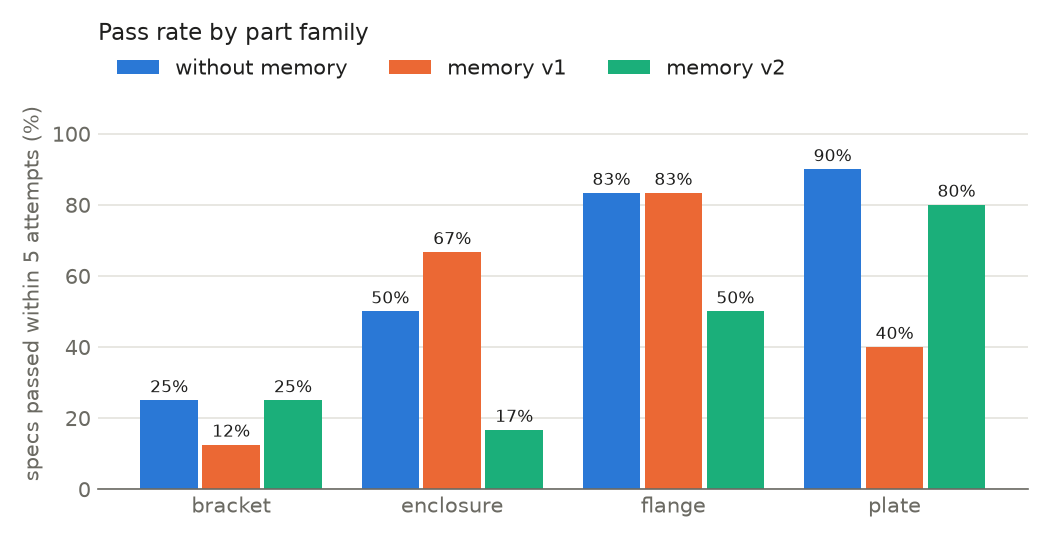
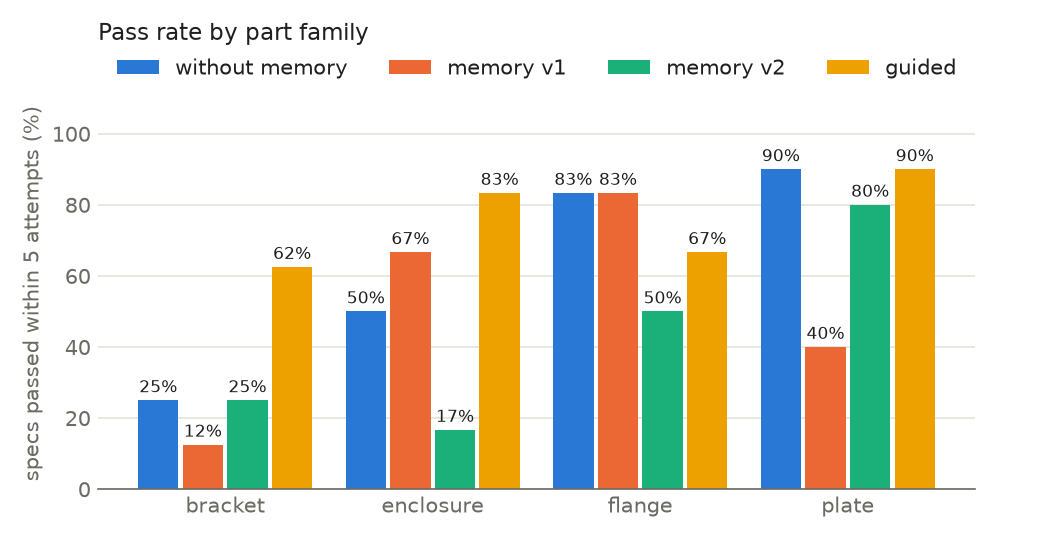
results: add the guided run, which passed 23 of 30 specs
With a tested CadQuery guide, hints in the feedback and a short attempt history, 77% of specs passed against 63% without help, and 37% passed on the first attempt against 13%. The gap is not yet significant on one run, so the README says so and names the next step: more runs of both conditions.

diff --git a/README.md b/README.md
@@ -1,9 +1,11 @@
 # cad-agent
 
 An LLM agent that writes [CadQuery](https://github.com/CadQuery/cadquery) code
-from a written part spec, a checker that measures the solid it builds, and a
-memory of lessons from earlier mistakes. A 30-part benchmark measures whether the
-memory helps.
+from a written part spec, and a checker that measures the solid it builds. A
+30-part benchmark compares four ways of helping the model: none, two versions of
+a memory of lessons it writes itself, and a hand-written guide with more precise
+feedback. The guide raised the pass rate from 63% to 77%; the learned memories
+lowered it to 47%.
 
 ## The problem: "it runs" is not "it's right"
 
@@ -100,8 +102,8 @@ partway. The hole-depth check caught them, and plate_07 keeps that mistake as a
 broken copy.
 
 **Conditions.** A: no memory. B: memory v1. C: memory v2. In B and C the memory
-starts empty and builds up over the run. D (results pending) replaces learned
-memory with a hand-written CadQuery guide whose examples are tested, hints in the
+starts empty and builds up over the run. D (guided) has no memory. Instead it
+adds a hand-written CadQuery guide whose examples are tested, hints in the
 checker's feedback, and a short history of earlier attempts in each retry. All three see the same 30 specs in the
 same shuffled order, at temperature 1.0, seeded per run.
 
@@ -111,15 +113,15 @@ One run per condition with `openai/gpt-oss-120b` on Groq, 30 specs each. Every
 number below comes from [results/openai_gpt-oss-120b/summary.md](results/openai_gpt-oss-120b/summary.md),
 which `bench/analyze.py` builds from the committed logs.
 
-| Metric | A: no memory | B: memory v1 | C: memory v2 |
-|---|---|---|---|
-| Specs passed within 5 attempts | 63% (19/30) | 47% (14/30) | 47% (14/30) |
-| Passed on the first attempt | 13% | 7% | 17% |
-| First attempt ran but was wrong | 33% | 27% | 27% |
-| First attempt did not run | 53% | 67% | 57% |
-| Mean attempts, specs that passed | 2.58 | 3.00 | 2.21 |
-| Attempts rejected as malformed tool calls | 5% | 20% | 10% |
-| Tokens per spec | 4,069 | 5,276 | 4,828 |
+| Metric | A: no memory | B: memory v1 | C: memory v2 | D: guided |
+|---|---|---|---|---|
+| Specs passed within 5 attempts | 63% (19/30) | 47% (14/30) | 47% (14/30) | **77% (23/30)** |
+| Passed on the first attempt | 13% | 7% | 17% | **37%** |
+| First attempt ran but was wrong | 33% | 27% | 27% | 30% |
+| First attempt did not run | 53% | 67% | 57% | 33% |
+| Mean attempts, specs that passed | 2.58 | 3.00 | 2.21 | 2.13 |
+| Attempts rejected as malformed tool calls | 5% | 20% | 10% | 14% |
+| Tokens per spec | 4,069 | 5,276 | 4,828 | 4,472 |
 
 **Neither version of memory helped.** Paired by spec against the run without
 memory, v1 has 6 specs that passed only without memory and 1 only with it
@@ -127,6 +129,11 @@ memory, v1 has 6 specs that passed only without memory and 1 only with it
 statistically significant on 30 specs, so the honest reading is "no measured
 benefit", not "memory hurts by 16 points". v2's better first-attempt rate (5
 specs against 4) is one spec, which is noise.
+
+**The guided condition did best, but one run cannot prove it.** D passed 23 of
+30 specs and nearly three times as many on the first attempt (11 against 4).
+Paired by spec, 5 specs passed only with D and 1 only without help (p = 0.219):
+promising, not yet significant. Three runs of A and D would settle it.
 
 ![Pass rate by part family](results/openai_gpt-oss-120b/pass_rate_by_family.png)
 ![Failure categories by condition](results/openai_gpt-oss-120b/failure_categories.png)
@@ -186,11 +193,41 @@ argument in run_and_check". That run measured a bug, so it is
 [archived with a note](results/openai_gpt-oss-120b/archive_B_memory_bug/NOTE.md)
 and not counted above.
 
-**Most frequent remaining failure:** a wrong hole count without memory and with
-v1 (4 of the 11 specs that failed without memory, 8 of the 16 with v1). With v2
+**Most frequent remaining failure:** a wrong hole count without memory, with v1
+and in D (2 of D's 7 failures) (4 of the 11 specs that failed without memory, 8 of the 16 with v1). With v2
 it is code that does not run or builds an invalid solid (8 of 16 failed specs,
 against 4 of 11 without memory), which fits lessons that send the model towards
 wrong API use.
+
+**The guided condition fixed the failures the logs pointed at.** The specs that
+passed only with D are the ones that kept repeating one mistake without help:
+
+- bracket_01, an easy bracket whose holes landed 0.3 mm off five times without
+  help, passed on the first attempt: the guide says to build from the origin
+  and place holes with `.workplane(origin=(0, 0, 0))`;
+- enclosure_03, "expected one solid, found 5" five times without help, passed on
+  the second attempt, after the hint listed where the five solids were;
+- enclosure_04, a hole along Y missing four times without help, passed on the
+  second attempt.
+
+The passing code uses the advice it was given: bracket_01 places its holes with
+`.workplane(origin=(0, 0, 0))`, enclosure_04 cuts its hole with
+`cq.Solid.makeCylinder` as the guide's example does, and enclosure_03 joins its
+parts with `.union()`.
+
+Runs that crashed fell from 24% of attempts to 13%. Brackets rose from 25% to
+62%, enclosures from 50% to 83%, and every easy spec passed. Hard specs did not
+move (40%), and one flange that passed without help failed with it.
+
+The difference from memory is where the knowledge comes from. The learned
+lessons were written by the model about its own mistake, often wrong, and never
+checked. The guide is written once, about the mistakes the logs showed most, and
+every example in it is built and measured by the tests.
+
+**The cost: more rejected tool calls.** 14% of D's attempts were tool calls the
+provider rejected, against 5% without help. The guide adds about 500 tokens to
+the prompt; as with v1's lessons, a longer prompt went with more rejected calls.
+A shorter guide may keep the gain and lose the cost.
 
 **A note on the v2 run.** The run resumes between specs, not within one. While
 the daily token limit was nearly used up, bracket_03 was started 45 times and cut
@@ -200,8 +237,11 @@ finishes, so the restarts did not change the memory.
 
 ## Limits and next ideas
 
-- **One model, one run, 30 specs.** Error bars are wide; the 16-point gaps above
-  are not significant. More runs (`--runs 3`) would show the spread.
+- **One model, one run, 30 specs.** Error bars are wide, and none of the gaps
+  above is significant. The next step is two more runs each of A and D
+  (`--runs 3 --conditions AD`), about four days of the free budget.
+- **Hard specs are where the room is.** D still fails 6 of 10 hard specs. Most
+  are brackets and enclosures with several features on different faces.
 - **Next fix for memory: check a lesson before keeping it.** Shape rules (length,
   ASCII, naming a call) fixed the tool calls but let wrong lessons through. A
   lesson should be kept only if it changes behaviour, for example only if the

diff --git a/results/openai_gpt-oss-120b/summary.md b/results/openai_gpt-oss-120b/summary.md
@@ -1,22 +1,24 @@
 Model: `openai/gpt-oss-120b`, 1 run(s) per condition, 30 specs per run.
 
-| Metric | without memory | memory v1 | memory v2 |
-|---|---|---|---|
-| Specs passed within 5 attempts | 63% | 47% | 47% |
-| Passed on the first attempt | 13% | 7% | 17% |
-| First attempt ran but was wrong | 33% | 27% | 27% |
-| First attempt did not run | 53% | 67% | 57% |
-| Mean attempts, specs that passed | 2.58 | 3.00 | 2.21 |
-| Attempts rejected as malformed tool calls | 5% | 20% | 10% |
-| Tokens per spec | 4,069 | 5,276 | 4,828 |
+| Metric | without memory | memory v1 | memory v2 | guided |
+|---|---|---|---|---|
+| Specs passed within 5 attempts | 63% | 47% | 47% | 77% |
+| Passed on the first attempt | 13% | 7% | 17% | 37% |
+| First attempt ran but was wrong | 33% | 27% | 27% | 30% |
+| First attempt did not run | 53% | 67% | 57% | 33% |
+| Mean attempts, specs that passed | 2.58 | 3.00 | 2.21 | 2.13 |
+| Attempts rejected as malformed tool calls | 5% | 20% | 10% | 14% |
+| Tokens per spec | 4,069 | 5,276 | 4,828 | 4,472 |
 
 Paired by spec against the run without memory (exact McNemar test):
 
 - memory v1: 6 passed only without memory, 1 only with it, p = 0.125
 - memory v2: 7 passed only without memory, 2 only with it, p = 0.180
+- guided: 1 passed only without memory, 5 only with it, p = 0.219
 
 Most frequent failure in specs that still failed, by condition:
 
 - without memory: `hole_count` (4), `runtime_error` (2), `invalid_solid` (2), `shape_mismatch` (1), `hole_position` (1), `no_code` (1)
 - memory v1: `hole_count` (8), `runtime_error` (2), `invalid_solid` (2), `volume` (2), `no_code` (1), `wall_thickness` (1)
 - memory v2: `runtime_error` (4), `invalid_solid` (3), `shape_mismatch` (2), `hole_count` (2), `hole_depth` (2), `syntax_error` (1), `no_code` (1), `volume` (1)
+- guided: `hole_count` (2), `shape_mismatch` (2), `no_code` (1), `volume` (1), `hole_depth` (1)
